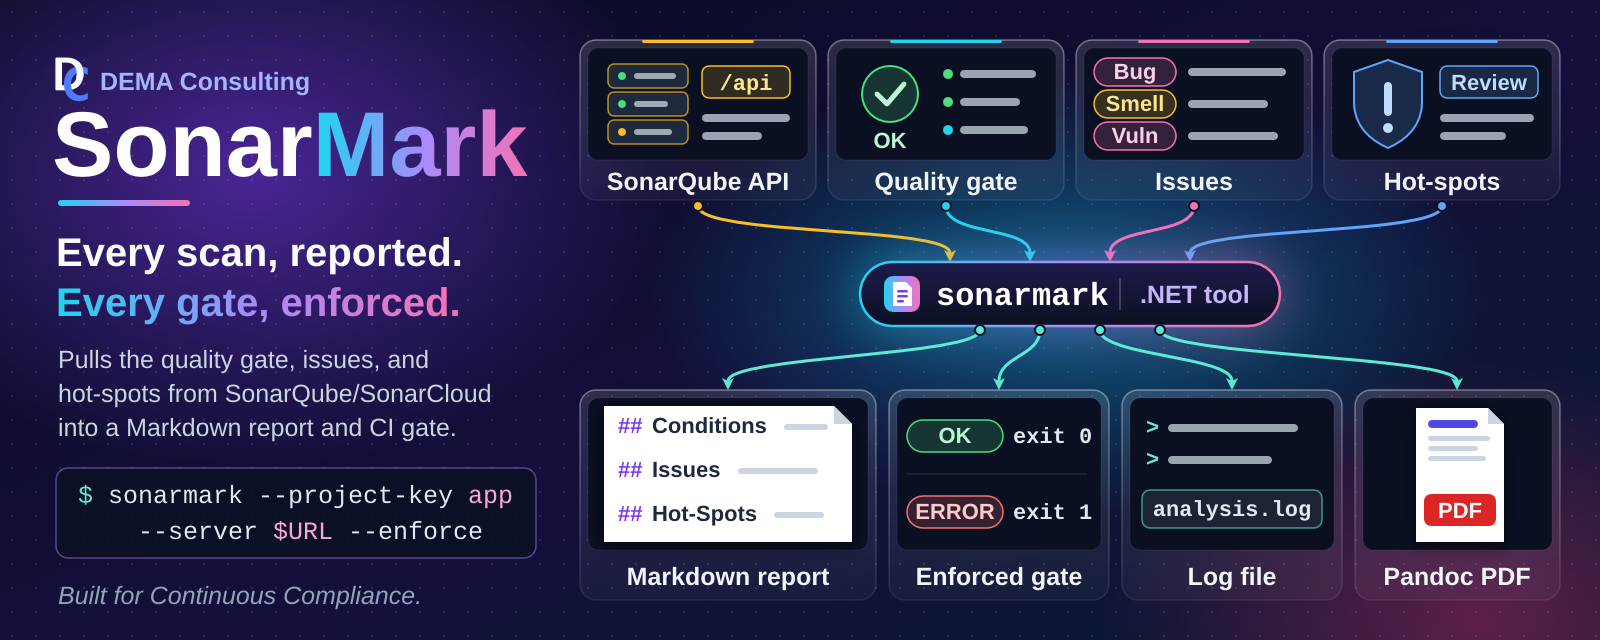
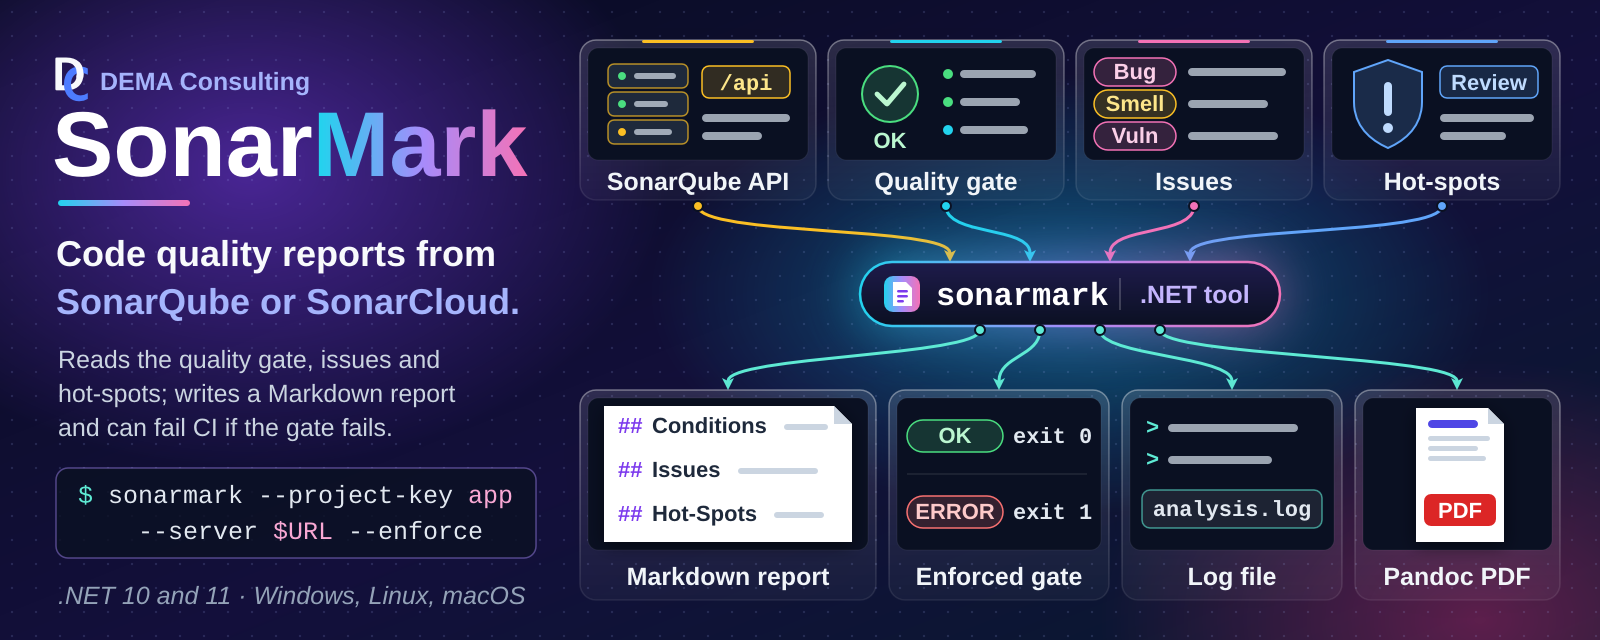
Calm the README hero and make it the H1
Plain tagline (Code quality reports from / SonarQube or SonarCloud.), factual body and footnote, 36px solid tagline per template #66; README now opens with the hero as the H1 followed by the badges.

Changed region(s): [[0.0312, 0.375, 0.3438, 0.5], [0.0312, 0.5312, 0.3125, 0.6875], [0.0312, 0.9062, 0.3438, 0.9688]]

diff --git a/README.md b/README.md
@@ -1,4 +1,4 @@
-# SonarMark
+# ![SonarMark: Code quality reports from SonarQube or SonarCloud][hero]
 
 [![GitHub forks][badge-forks]][link-forks]
 [![GitHub stars][badge-stars]][link-stars]
@@ -8,16 +8,6 @@
 [![Quality Gate][badge-quality]][link-quality]
 [![Security][badge-security]][link-security]
 [![NuGet][badge-nuget]][link-nuget]
-
-![SonarMark banner: the SonarMark name with the tagline 'Every scan, reported. Every gate, enforced.' and the
-command 'sonarmark --project-key app --server $URL --enforce'. A SonarQube or SonarCloud server's web API, the
-project's quality gate with its conditions, its issues tagged bug, code smell, and vulnerability, and its security
-hot-spots to review flow on curved arrows into the sonarmark .NET tool, and arrows lead out to what sonarmark
-produces: an enforced quality gate that exits 0 when the gate is OK and 1 when it is ERROR, and, when --report and
---log are given, a Markdown report with Conditions, Issues, and Hot-Spots sections and an analysis.log log file, plus a
-downstream Pandoc PDF rendered from the report][hero]
-
-Code Quality Reporting Tool for SonarQube/SonarCloud
 
 ## Overview
 
